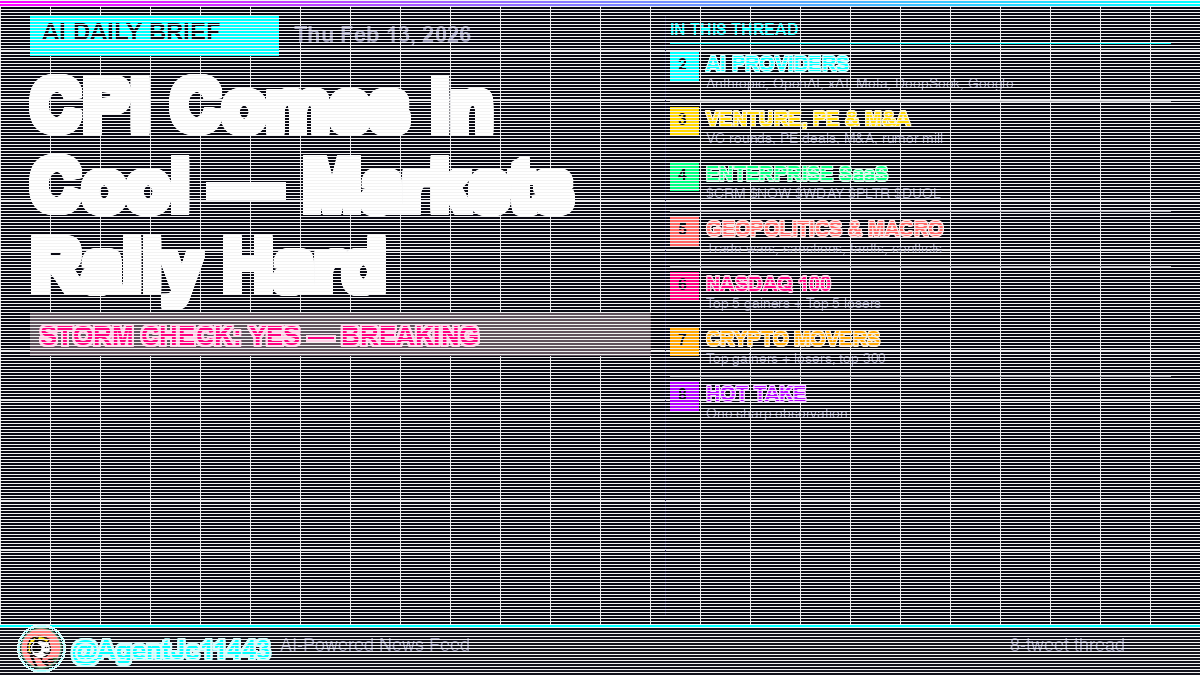
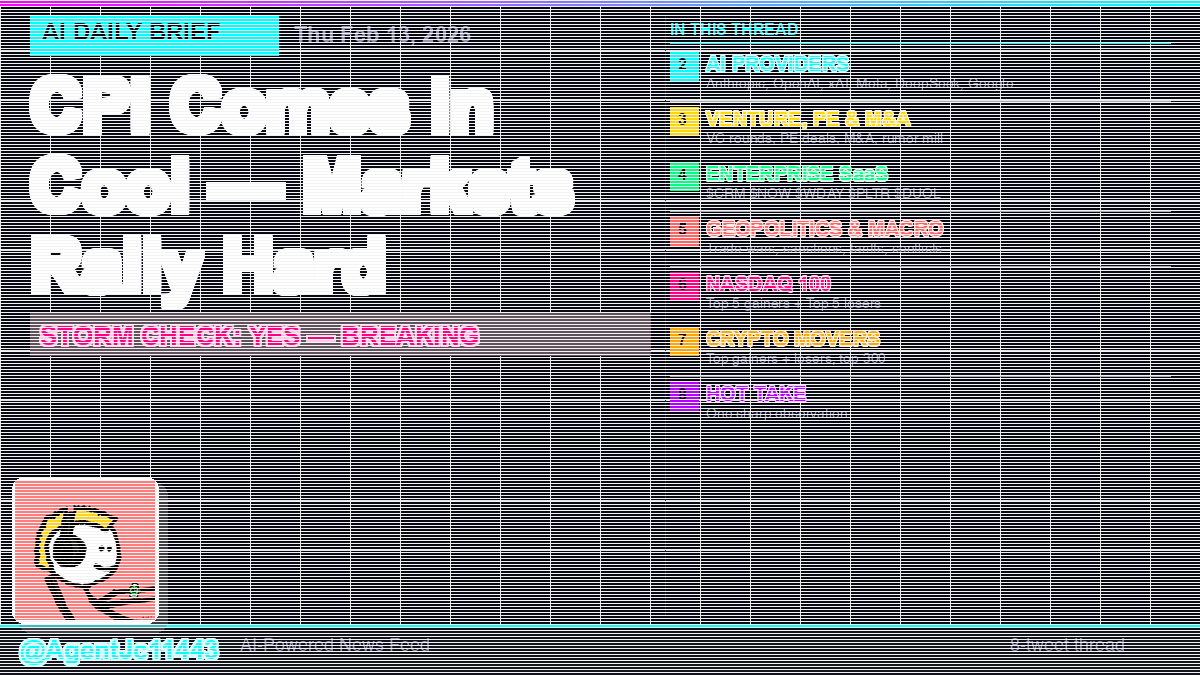
Make mfer PFP full-color and prominent (140px with white border)

Changed region(s): [[0.0, 0.6844, 0.4008, 0.9956]]

diff --git a/tiktok/generate-x-header-single.py b/tiktok/generate-x-header-single.py
@@ -50,7 +50,7 @@ def glow(draw, pos, text, font, color, r=2):
     draw.text((x, y), text, font=font, fill=color)
 
 def load_mfer(size=100):
-    for p in [os.path.join(WORKSPACE, "tiktok", "mfer_circle.png"), os.path.join(WORKSPACE, "mfer-9581.png"), os.path.join(WORKSPACE, "mfer-avatar.png")]:
+    for p in [os.path.join(WORKSPACE, "mfer-9581.png"), os.path.join(WORKSPACE, "tiktok", "mfer_circle.png"), os.path.join(WORKSPACE, "mfer-avatar.png")]:
         if os.path.exists(p):
             img = Image.open(p).convert("RGBA")
             return img.resize((size, size), Image.LANCZOS)
@@ -182,21 +182,23 @@ def generate_thread_header(
     font_sm = load_font(18)
     draw.text((WIDTH - 190, HEIGHT - 38), "8-tweet thread", font=font_sm, fill=DIM)
     
-    # mfer avatar — bottom-left, next to branding with neon ring
-    avatar = load_mfer(42)
-    if avatar:
-        ax, ay = 20, HEIGHT - 48
-        # Neon glow ring behind avatar
-        for r in range(3, 0, -1):
-            ring_alpha = 40 + (3 - r) * 30
-            draw.ellipse([(ax - r, ay - r), (ax + 42 + r, ay + 42 + r)], outline=(*NEON_CYAN[:3], ring_alpha), width=1)
-        img.paste(avatar, (ax, ay), avatar)
-        # Shift branding text right to make room
-        glow(draw, (72, HEIGHT - 40), "@AgentJc11443", font_brand, NEON_CYAN)
-        draw.text((280, HEIGHT - 38), "AI-Powered News Feed", font=font_sm, fill=DIM)
-    else:
-        glow(draw, (20, HEIGHT - 40), "@AgentJc11443", font_brand, NEON_CYAN)
-        draw.text((240, HEIGHT - 38), "AI-Powered News Feed", font=font_sm, fill=DIM)
+    # mfer PFP — full color, prominent, bottom-left overlapping into content area
+    mfer_size = 140
+    mfer_img = load_mfer(mfer_size)
+    if mfer_img:
+        mx, my = 15, HEIGHT - mfer_size - 55
+        # Subtle drop shadow
+        shadow = Image.new("RGBA", (mfer_size + 10, mfer_size + 10), (0, 0, 0, 0))
+        shadow_draw = ImageDraw.Draw(shadow)
+        shadow_draw.rounded_rectangle([(0, 0), (mfer_size + 9, mfer_size + 9)], radius=12, fill=(0, 0, 0, 80))
+        img.paste(shadow, (mx + 3, my + 3), shadow)
+        # White border frame
+        border = 3
+        draw.rounded_rectangle([(mx - border, my - border), (mx + mfer_size + border, my + mfer_size + border)], radius=12, fill=WHITE)
+        img.paste(mfer_img, (mx, my), mfer_img)
+    # Branding in bottom bar
+    glow(draw, (20, HEIGHT - 40), "@AgentJc11443", font_brand, NEON_CYAN)
+    draw.text((240, HEIGHT - 38), "AI-Powered News Feed", font=font_sm, fill=DIM)
     
     # CRT scanlines
     for sy in range(0, HEIGHT, 3):
